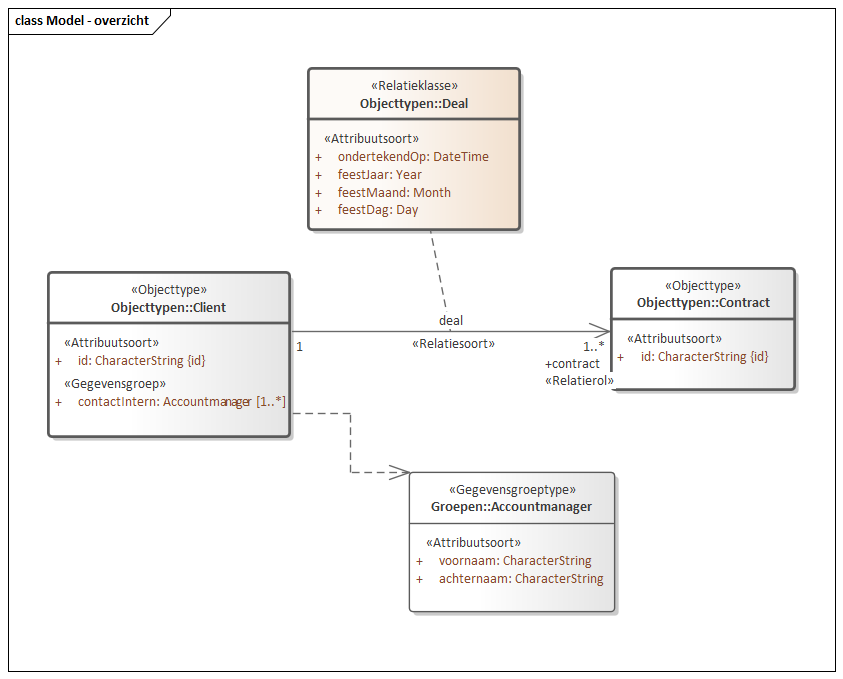
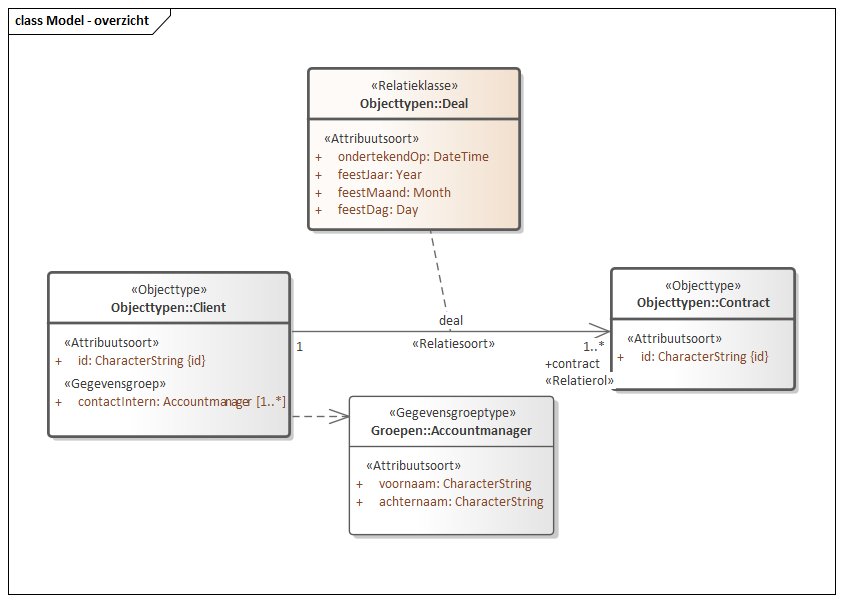
MIMCM-Bakstenenbasismodel-1.0.0-2-20130318-20221115-133705

diff --git a/data/SAMPLE-cat.respec.html b/data/SAMPLE-cat.respec.html
@@ -1,8 +1,8 @@
 
 <!DOCTYPE HTML><section id="cat" class="normative">
    <h2>Gegevensdefinitie</h2>
-   <!--MIMCM-Bakstenenconceptueelmodel-1.0.0-2-20130318-20221114-101348 imvertor 1.67.1--><a class="anchor" id="global_d19947e1"></a><section id="global_d19947e1">
-      <h3>Model   Bakstenen conceptueel model</h3>
+   <!--MIMCM-Bakstenenbasismodel-1.0.0-2-20130318-20221115-133705 imvertor 1.67.1--><a class="anchor" id="global_d19428e1"></a><section id="global_d19428e1">
+      <h3>Model   Bakstenen basismodel</h3>
       <section id="EAID_08513AA0_8A50_46c1_AD86_9B80D9A6AAE1">
          <h4>   Model - overzicht</h4>
          <div class="imageinfo overview"><img src="data/Images/EAID_08513AA0_8A50_46c1_AD86_9B80D9A6AAE1.png" usemap="#imagemap-EAID_08513AA0_8A50_46c1_AD86_9B80D9A6AAE1" alt="Diagram &#xA;                        Overzicht van alle constructies in dit conceptuele model.&#xA;                        &#xA;                        Ook een regel met een diacriet [é].&#xA;                     "><map name="imagemap-EAID_08513AA0_8A50_46c1_AD86_9B80D9A6AAE1"><area shape="rect" alt="Accountmanager" coords="1102,400,1307,539" href="#graph_EAID_29D6B892_B943_494c_94C7_A13DB031E998"><area shape="rect" alt="ExterneProducent" coords="541,372,726,441" href="#graph_EAID_E2C93214_90E2_4151_B719_7BB8CDF8679F"><area shape="rect" alt="Baksteen" coords="48,99,326,318" href="#graph_EAID_CF7C4448_E50C_4c7a_B1D0_C4FCB2EB1814"><area shape="rect" alt="Producent" coords="541,112,726,311" href="#graph_EAID_04EED45C_4D30_41b9_83EE_65237E1F8E27"><area shape="rect" alt="Deal" coords="1088,99,1301,193" href="#graph_EAID_77692663_02DC_482e_827D_F7D28AF607D8"><area shape="rect" alt="Contract" coords="1348,263,1533,345" href="#graph_EAID_77987690_1141_457d_A33B_E1C7AA1EA812"><area shape="rect" alt="Client" coords="828,235,1071,331" href="#graph_EAID_DF955A82_3E49_4c9d_9C0C_74738600FE1B"></map><p><b>Model - overzicht</b>
@@ -19,7 +19,7 @@
       <h3>Domein   Baksteen productie</h3>
       <section id="EAID_84CEDDF3_6992_489f_A4EE_319145DE4118">
          <h4>   Model - overzicht</h4>
-         <div class="imageinfo overview"><img src="data/Images/EAID_84CEDDF3_6992_489f_A4EE_319145DE4118.png" usemap="#imagemap-EAID_84CEDDF3_6992_489f_A4EE_319145DE4118" alt="Diagram &#xA;                        Overzicht van alle constructies in dit model voor bakstenen en hun producenten.&#xA;                     "><map name="imagemap-EAID_84CEDDF3_6992_489f_A4EE_319145DE4118"><area shape="rect" alt="Fabriek" coords="899,122,1036,231" href="#graph_EAID_0D13D4A0_F7FA_4417_A5FC_3F4C83F067F2"><area shape="rect" alt="Postcode" coords="580,812,742,878" href="#graph_EAID_6E1568CE_9039_4ed8_B360_291D77922C9F"><area shape="rect" alt="Gewicht" coords="804,810,1003,961" href="#graph_EAID_11FD40A5_BE06_452a_9307_B5B5155E0EA4"><area shape="rect" alt="Baksteentype Baksteentype" coords="802,632,1002,778" href="#graph_EAID_705E4D02_09C2_4812_AA1F_D80E12C89EE0"><area shape="rect" alt="Steengrootte" coords="316,622,494,764" href="#graph_EAID_65363897_E229_41fd_BE6F_E6B1BACAD458"><area shape="rect" alt="Oppervlak" coords="309,809,550,876" href="#graph_EAID_8860422B_51C4_4f67_B9C4_90B01A356442"><area shape="rect" alt="Status" coords="53,623,238,763" href="#graph_EAID_E86D21EE_58FD_4975_9CCB_AFF2434704A8"><area shape="rect" alt="Lijn" coords="48,808,283,878" href="#graph_EAID_05E012A3_0E45_4b91_8F93_3CC0D50B0509"><area shape="rect" alt="Goniometric" coords="63,934,260,1088" href="#graph_EAID_22DF50AD_91EB_4db3_AA33_D5C2CE2FB906"><area shape="rect" alt="ExterneProducent" coords="528,372,713,530" href="#graph_EAID_E2C93214_90E2_4151_B719_7BB8CDF8679F"><area shape="rect" alt="Baksteen" coords="70,112,307,448" href="#graph_EAID_CF7C4448_E50C_4c7a_B1D0_C4FCB2EB1814"><area shape="rect" alt="ProductieKenmerk" coords="542,624,757,769" href="#graph_EAID_4D78F0AD_88ED_44ef_9A76_163426CD74D1"><area shape="rect" alt="Producent" coords="515,112,700,311" href="#graph_EAID_04EED45C_4D30_41b9_83EE_65237E1F8E27"><area shape="rect" alt="OppervlakGrootte" coords="316,945,467,1068" href="#graph_EAID_8D034A6D_37F7_4765_9CFF_FE3DF59A8340"></map><p><b>Model - overzicht</b>
+         <div class="imageinfo overview"><img src="data/Images/EAID_84CEDDF3_6992_489f_A4EE_319145DE4118.png" usemap="#imagemap-EAID_84CEDDF3_6992_489f_A4EE_319145DE4118" alt="Diagram &#xA;                        Overzicht van alle constructies in dit model voor bakstenen en hun producenten.&#xA;                     "><map name="imagemap-EAID_84CEDDF3_6992_489f_A4EE_319145DE4118"><area shape="rect" alt="Postcode" coords="580,812,742,878" href="#graph_EAID_6E1568CE_9039_4ed8_B360_291D77922C9F"><area shape="rect" alt="Gewicht" coords="804,810,1003,961" href="#graph_EAID_11FD40A5_BE06_452a_9307_B5B5155E0EA4"><area shape="rect" alt="Baksteentype Baksteentype" coords="802,632,1002,778" href="#graph_EAID_705E4D02_09C2_4812_AA1F_D80E12C89EE0"><area shape="rect" alt="Steengrootte" coords="316,622,494,764" href="#graph_EAID_65363897_E229_41fd_BE6F_E6B1BACAD458"><area shape="rect" alt="Oppervlak" coords="309,809,550,876" href="#graph_EAID_8860422B_51C4_4f67_B9C4_90B01A356442"><area shape="rect" alt="Status" coords="53,623,238,763" href="#graph_EAID_E86D21EE_58FD_4975_9CCB_AFF2434704A8"><area shape="rect" alt="Lijn" coords="48,808,283,878" href="#graph_EAID_05E012A3_0E45_4b91_8F93_3CC0D50B0509"><area shape="rect" alt="Goniometric" coords="63,934,260,1088" href="#graph_EAID_22DF50AD_91EB_4db3_AA33_D5C2CE2FB906"><area shape="rect" alt="ExterneProducent" coords="528,372,713,530" href="#graph_EAID_E2C93214_90E2_4151_B719_7BB8CDF8679F"><area shape="rect" alt="Baksteen" coords="70,112,307,448" href="#graph_EAID_CF7C4448_E50C_4c7a_B1D0_C4FCB2EB1814"><area shape="rect" alt="ProductieKenmerk" coords="542,624,757,769" href="#graph_EAID_4D78F0AD_88ED_44ef_9A76_163426CD74D1"><area shape="rect" alt="Producent" coords="515,112,700,311" href="#graph_EAID_04EED45C_4D30_41b9_83EE_65237E1F8E27"><area shape="rect" alt="OppervlakGrootte" coords="316,945,467,1068" href="#graph_EAID_8D034A6D_37F7_4765_9CFF_FE3DF59A8340"></map><p><b>Model - overzicht</b>
                
                <p>Overzicht van alle constructies in dit model voor bakstenen en hun producenten.</p>
                </p>
@@ -27,49 +27,6 @@
       </section>
       <section id="">
          <h4>Objecttypen   </h4>
-         <a class="anchor" id="graph_EAID_0D13D4A0_F7FA_4417_A5FC_3F4C83F067F2"></a><a class="anchor" id="global_class_BaksteenProductie_Fabriek"></a><section id="global_class_BaksteenProductie_Fabriek">
-            <h5>   Fabriek</h5>
-            
-            <table style="width: 100%;">
-               <colgroup style="width: 30%;"></colgroup>
-               <colgroup style="width: 70%;"></colgroup>
-               <tbody>
-                  <tr>
-                     <th>Naam</th>
-                     <td>Fabriek</td>
-                  </tr>
-               </tbody>
-            </table>
-            
-            <h6>Overzicht relaties  </h6>
-            
-            
-            <table style="width: 100%;">
-               <colgroup style="width: 50%;"></colgroup>
-               <colgroup style="width: 50%;"></colgroup>
-               <tbody>
-                  <tr>
-                     <th>Rol naam met kardinaliteiten</th>
-                     <th>Definitie</th>
-                  </tr>
-                  <tr>
-                     <td>
-                        
-                        <a class="link" href="#global_class_BaksteenProductie_Producent">Producent</a>
-                        
-                        [ 1 ]
-                        
-                        <a class="link" href="#detail_association_BaksteenProductie_Producent_productieUnit">gebakken in: productie unit</a>
-                        
-                        Fabriek
-                        [ 1 ]
-                        </td>
-                     <td></td>
-                  </tr>
-               </tbody>
-            </table>
-            
-            </section>
          <a class="anchor" id="graph_EAID_CF7C4448_E50C_4c7a_B1D0_C4FCB2EB1814"></a><a class="anchor" id="global_class_BaksteenProductie_Baksteen"></a><section id="global_class_BaksteenProductie_Baksteen">
             <h5>   Baksteen</h5>
             
@@ -441,20 +398,6 @@
                   <tr>
                      <th>Rol naam met kardinaliteiten</th>
                      <th>Definitie</th>
-                  </tr>
-                  <tr>
-                     <td>
-                        Producent
-                        [ 1 ]
-                        
-                        <a class="link" href="#detail_association_BaksteenProductie_Producent_productieUnit">gebakken in: productie unit</a>
-                        
-                        
-                        <a class="link" href="#global_class_BaksteenProductie_Fabriek">Fabriek</a>
-                        
-                        [ 1 ]
-                        </td>
-                     <td></td>
                   </tr>
                   <tr>
                      <td>
@@ -1725,31 +1668,6 @@
                      </tbody>
                   </table>
                   </div>
-               <a class="anchor" id="detail_association_BaksteenProductie_Producent_productieUnit"></a><div class="deepheader" id="detail_association_BaksteenProductie_Producent_productieUnit">
-                  <h7>Relatiesoort details  <a href="#global_class_BaksteenProductie_Producent">Producent</a> gebakken in</h7>
-                  
-                  
-                  <table style="width: 100%;">
-                     <colgroup style="width: 30%;"></colgroup>
-                     <colgroup style="width: 70%;"></colgroup>
-                     <tbody>
-                        <tr>
-                           <th>Naam</th>
-                           <td>gebakken in</td>
-                        </tr>
-                        <tr>
-                           <th>Kardinaliteit</th>
-                           <td>1</td>
-                        </tr>
-                        <tr>
-                           <th>Gerelateerd objecttype</th>
-                           <td>
-                              <a class="link" href="#global_class_BaksteenProductie_Fabriek">Fabriek</a>
-                              </td>
-                        </tr>
-                     </tbody>
-                  </table>
-                  </div>
                </section>
             <a class="anchor" id="detail_class_BaksteenProductie_ExterneProducent"></a><section id="detail_class_BaksteenProductie_ExterneProducent">
                <h6>   ExterneProducent</h6>
@@ -2001,7 +1919,7 @@
       <h3>Domein   Contract</h3>
       <section id="EAID_B1512B43_5B77_4c7c_9574_232179AC3035">
          <h4>   Model - overzicht</h4>
-         <div class="imageinfo overview"><img src="data/Images/EAID_B1512B43_5B77_4c7c_9574_232179AC3035.png" usemap="#imagemap-EAID_B1512B43_5B77_4c7c_9574_232179AC3035" alt="Diagram &#xA;                        Overzicht van alle constructies in dit model voor contracten.&#xA;                        En ook een é diacriet.&#xA;                     "><map name="imagemap-EAID_B1512B43_5B77_4c7c_9574_232179AC3035"><area shape="rect" alt="Accountmanager" coords="409,472,615,612" href="#graph_EAID_29D6B892_B943_494c_94C7_A13DB031E998"><area shape="rect" alt="Deal" coords="308,68,520,230" href="#graph_EAID_77692663_02DC_482e_827D_F7D28AF607D8"><area shape="rect" alt="Contract" coords="611,268,795,390" href="#graph_EAID_77987690_1141_457d_A33B_E1C7AA1EA812"><area shape="rect" alt="Client" coords="48,272,290,437" href="#graph_EAID_DF955A82_3E49_4c9d_9C0C_74738600FE1B"></map><p><b>Model - overzicht</b>
+         <div class="imageinfo overview"><img src="data/Images/EAID_B1512B43_5B77_4c7c_9574_232179AC3035.png" usemap="#imagemap-EAID_B1512B43_5B77_4c7c_9574_232179AC3035" alt="Diagram &#xA;                        Overzicht van alle constructies in dit model voor contracten.&#xA;                        En ook een é diacriet.&#xA;                     "><map name="imagemap-EAID_B1512B43_5B77_4c7c_9574_232179AC3035"><area shape="rect" alt="Accountmanager" coords="349,396,554,535" href="#graph_EAID_29D6B892_B943_494c_94C7_A13DB031E998"><area shape="rect" alt="Deal" coords="308,68,520,230" href="#graph_EAID_77692663_02DC_482e_827D_F7D28AF607D8"><area shape="rect" alt="Contract" coords="611,268,795,390" href="#graph_EAID_77987690_1141_457d_A33B_E1C7AA1EA812"><area shape="rect" alt="Client" coords="48,272,290,437" href="#graph_EAID_DF955A82_3E49_4c9d_9C0C_74738600FE1B"></map><p><b>Model - overzicht</b>
                
                <p>Overzicht van<b> alle constructies </b>in dit model voor contracten.</p>
                
@@ -2866,7 +2784,7 @@
 </section>
 <section id="lis" class="normative">
    <h2>Inhoud van waardenlijsten</h2>
-   <!--MIMCM-Bakstenenconceptueelmodel-1.0.0-2-20130318-20221114-101348 imvertor 1.67.1-->
+   <!--MIMCM-Bakstenenbasismodel-1.0.0-2-20130318-20221115-133705 imvertor 1.67.1-->
    <section id="">
       <h3>Referentielijst inhoud   </h3><a class="anchor" id="graph_EAID_705E4D02_09C2_4812_AA1F_D80E12C89EE0"></a><a class="anchor" id="detail_class_BaksteenProductie_Baksteentype"></a><section id="detail_class_BaksteenProductie_Baksteentype">
          <h4>Referentielijst  Baksteentype</h4>
